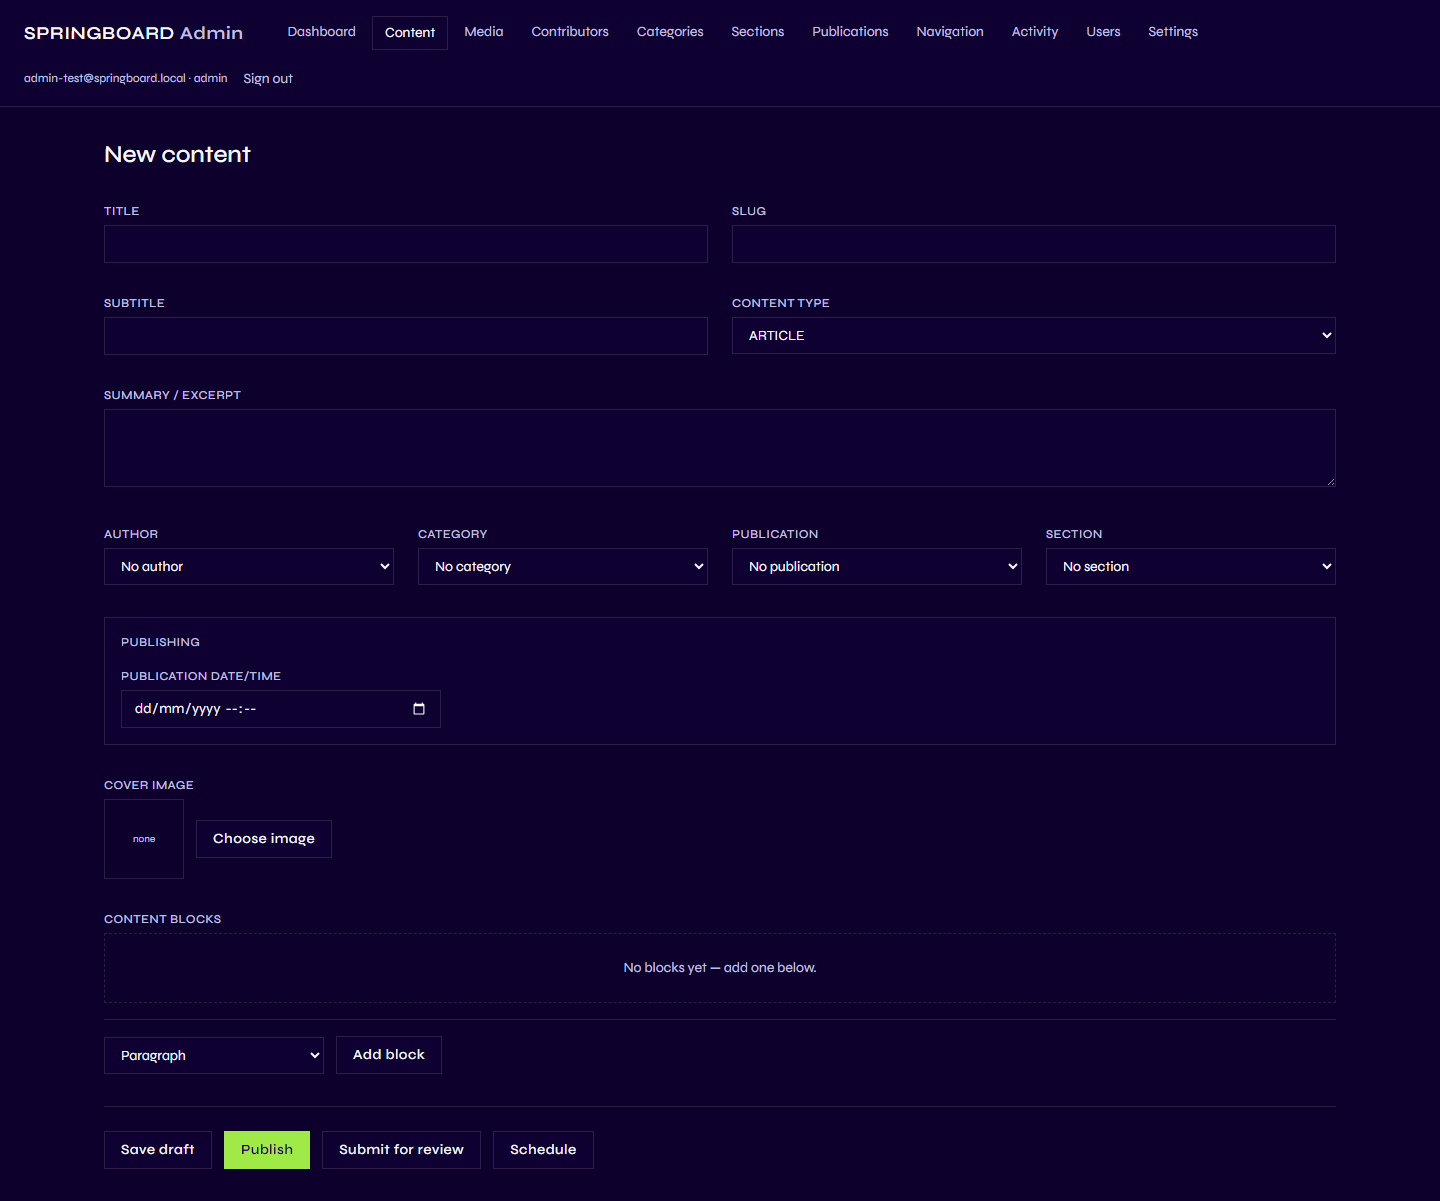
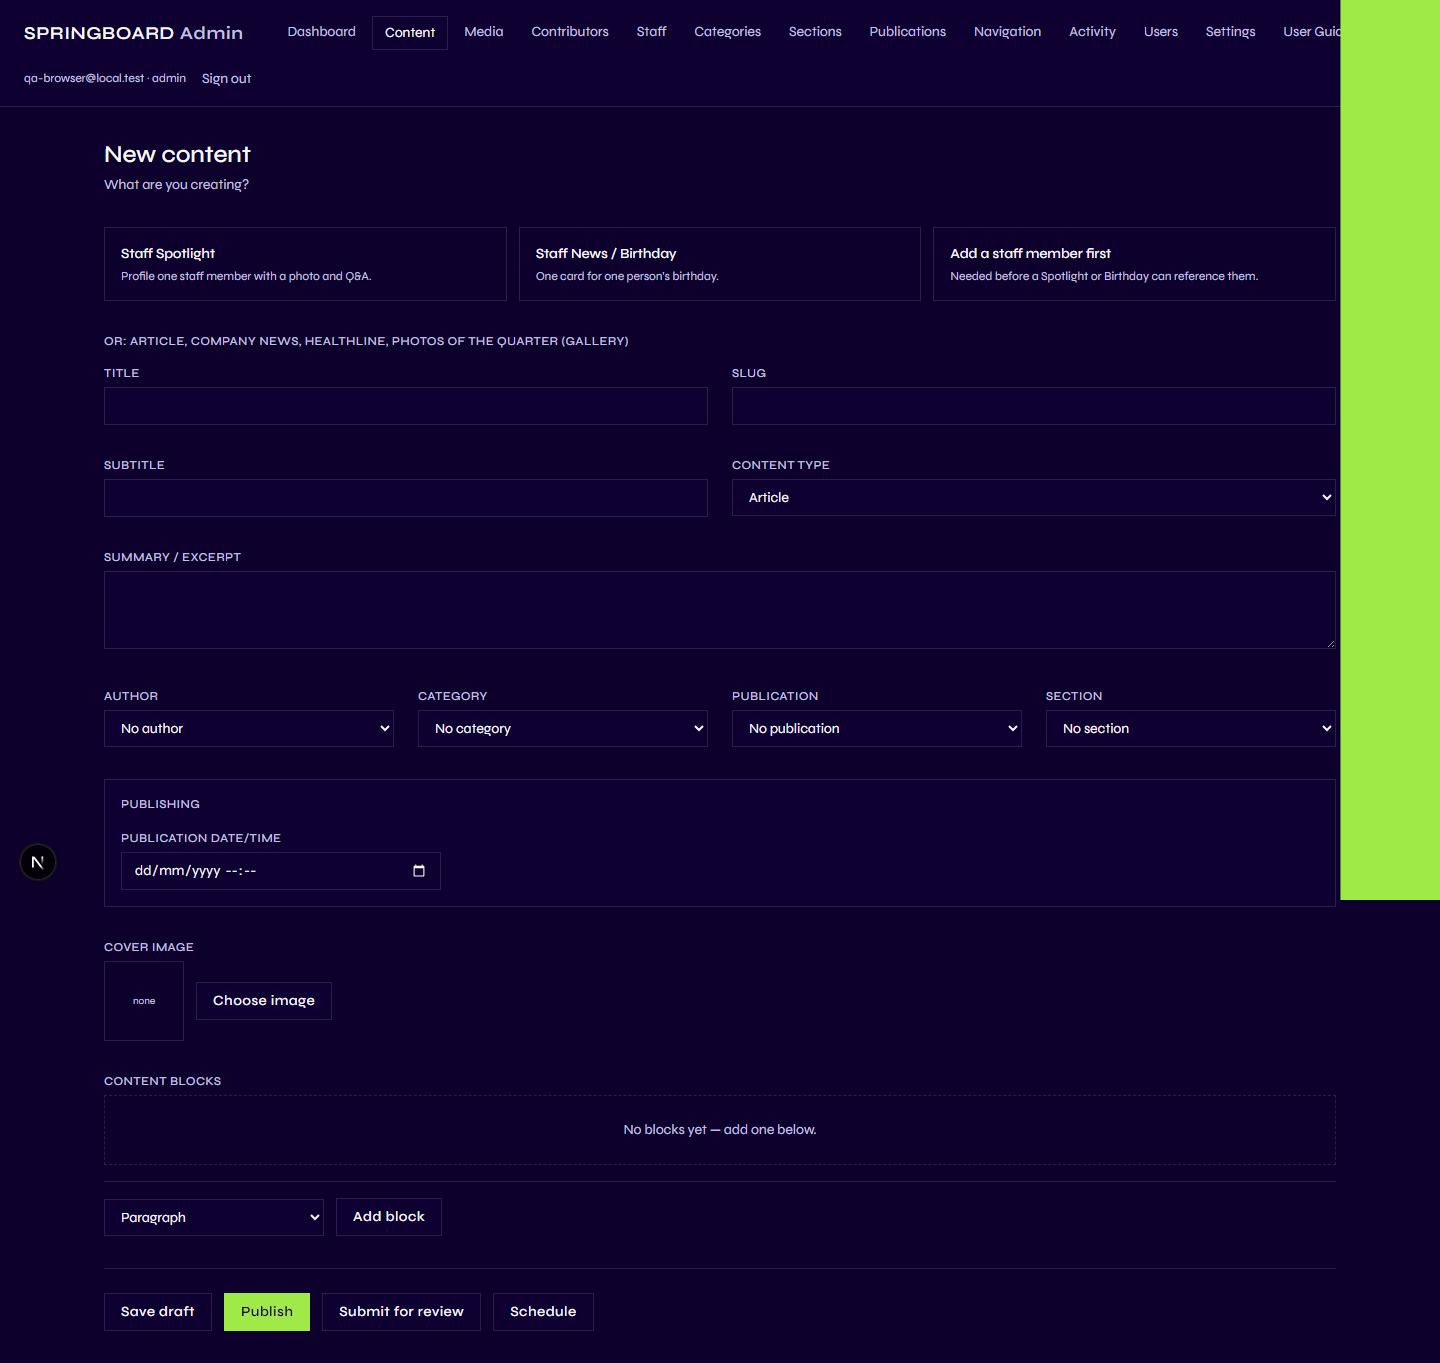
docs: recapture stale admin guide screenshots after Phase 1/2 UI changes
Real browser QA (Playwright, headless Chromium) confirmed the Phase 1
navigation admin and Phase 2 content chooser/type-label changes work
correctly end to end (login, content creation, author picker, media
upload and promotion, Staff Spotlight and Birthday creation/editing,
navigation hierarchy, category pages, draft-to-publish visibility, and
publication-status gating on issue detail pages). No application bugs
were found; two apparent failures in an early combined test run were
isolated and confirmed to be test-harness timing/caching artifacts, not
real defects, via independent direct-DOM and fresh-browser-context
verification. No src/ or supabase/ files changed in this commit.

Recaptures 5 screenshots that went stale after the grouped-navigation
rework: the flat 3-link admin nav (20/21/22) and the pre-chooser
Content list/New content pages (11/13). Re-wires the three navigation
screenshots back into 02-navigation.md, which had captured the new
admin flow in prose but dropped their image references during the
Phase 2 rewrite.

diff --git a/docs/user-guide/02-navigation.md b/docs/user-guide/02-navigation.md
@@ -62,6 +62,8 @@ underneath, then any standalone items after them. Each row shows the
 item's label, its destination, its position (`order`), and whether it's
 internal or external.
 
+![The Navigation page, showing the three groups (People & Culture, Company & Business, Engagement & Community) each with their child items indented underneath, and Search standing alone](images/20-admin-navigation.png)
+
 ### Add a new group heading
 
 1. Click **New top-level item**.
@@ -77,6 +79,8 @@ internal or external.
 3. Fill in **Label**, **URL** (required for an item inside a group), and
    **Display order**.
 4. Click **Save**.
+
+![The "New item in a group" form, with Group pre-set to People & Culture, and Label, URL, and Display order fields](images/21-admin-navigation-new-form.png)
 
 ### Add a standalone item (not in any group)
 
@@ -96,6 +100,8 @@ Every form also has:
 1. Click **Edit** on the row you want to change.
 2. The same form opens, pre-filled with that item's current values.
 3. Change whatever you need, then click **Save**.
+
+![Editing "People & Culture": Group is "None" and URL is blank, since a group heading has no destination of its own](images/22-admin-navigation-edit-form.png)
 
 ### Hide an item without deleting it
 
